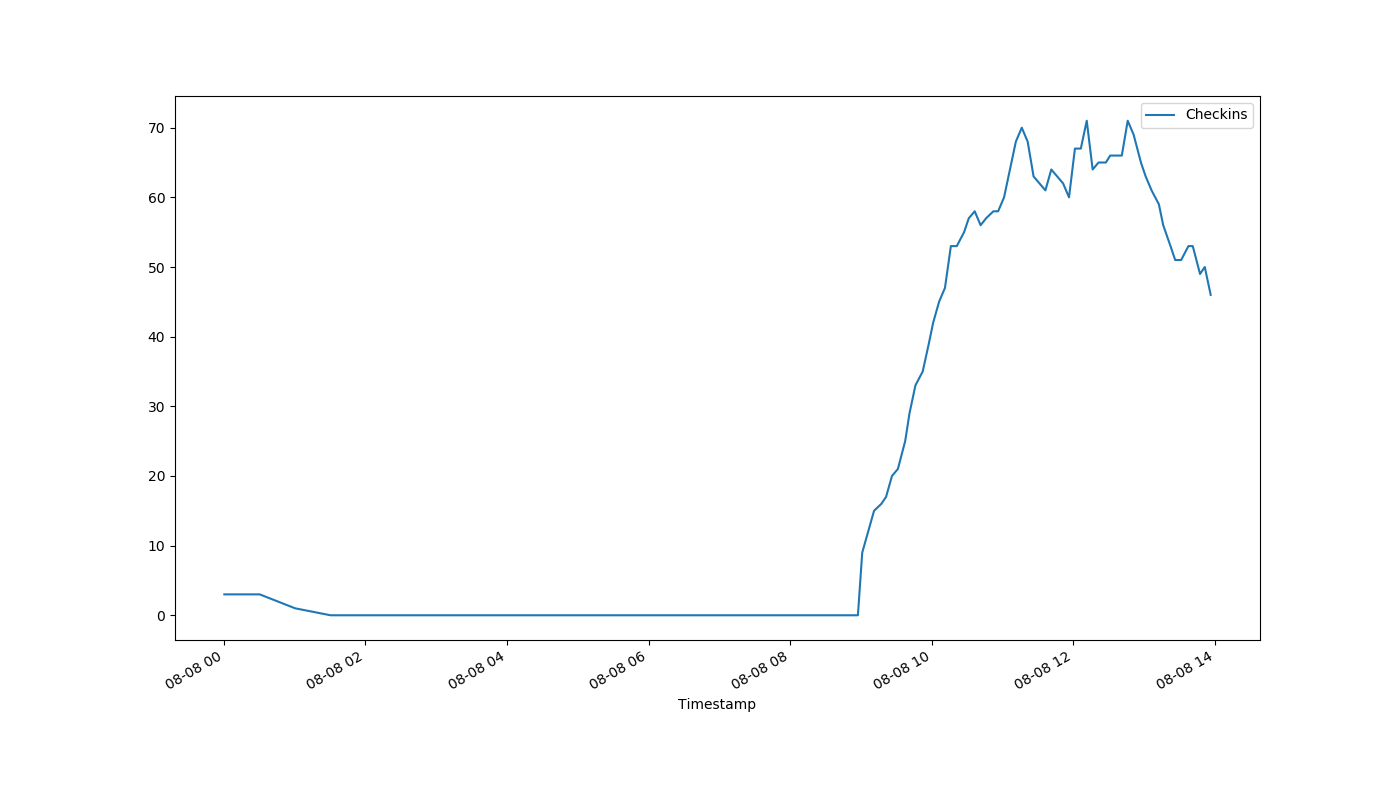
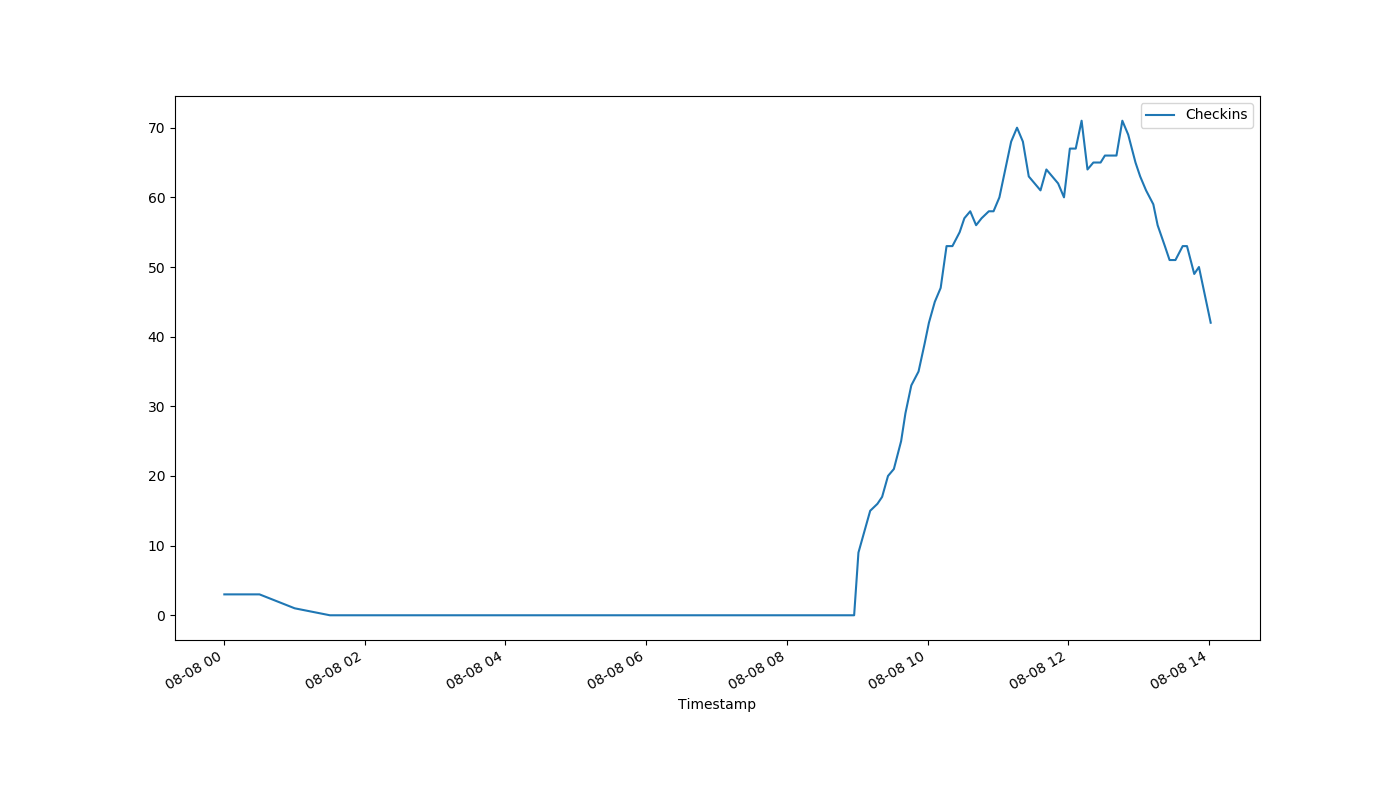
auto-Aug-08-14:03:38

diff --git a/index.html b/index.html
@@ -1,1 +1,1 @@
-<!DOCTYPE html><html><head><meta http-equiv="refresh" content="30"><link rel='stylesheet' href='holmcurrent.css'></head><body><p id='count'>46</p><div id='graph-wrap'><img id='graph' src='holmgraph-Aug-08.png'></div><p id='updated'>Last updated 13:57:15 / 13:56:19</p></body></html>
+<!DOCTYPE html><html><head><meta http-equiv="refresh" content="30"><link rel='stylesheet' href='holmcurrent.css'></head><body><p id='count'>42</p><div id='graph-wrap'><img id='graph' src='holmgraph-Aug-08.png'></div><p id='updated'>Last updated 14:02:15 / 14:01:19</p></body></html>
